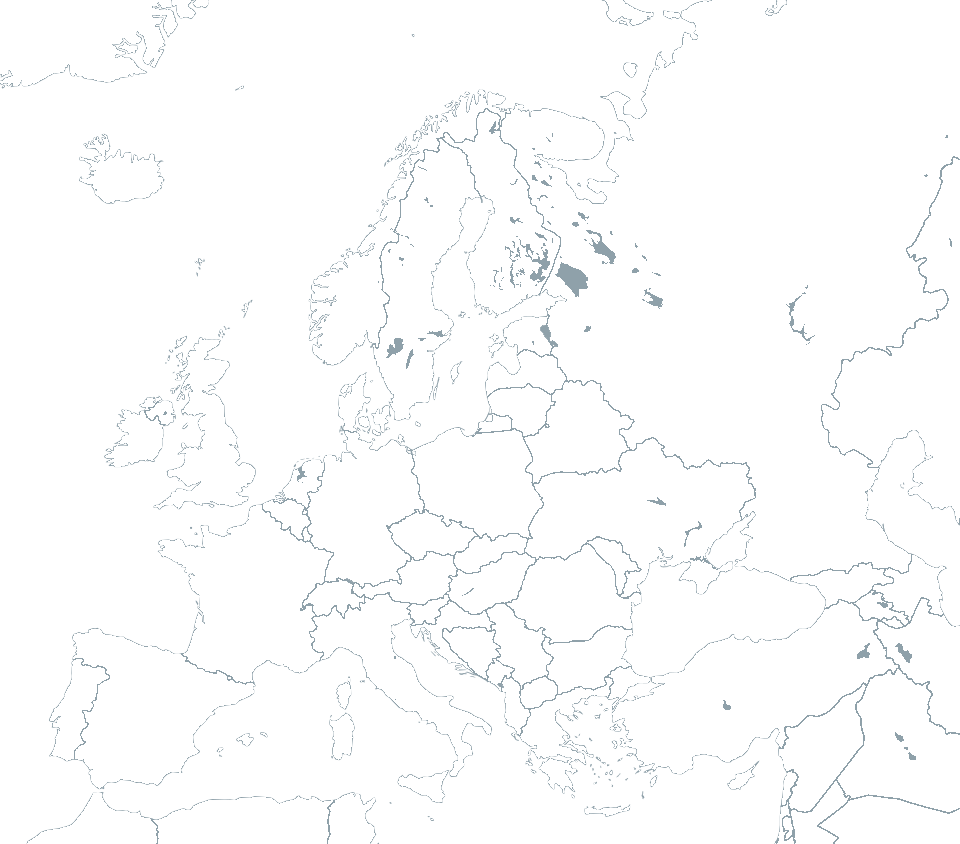
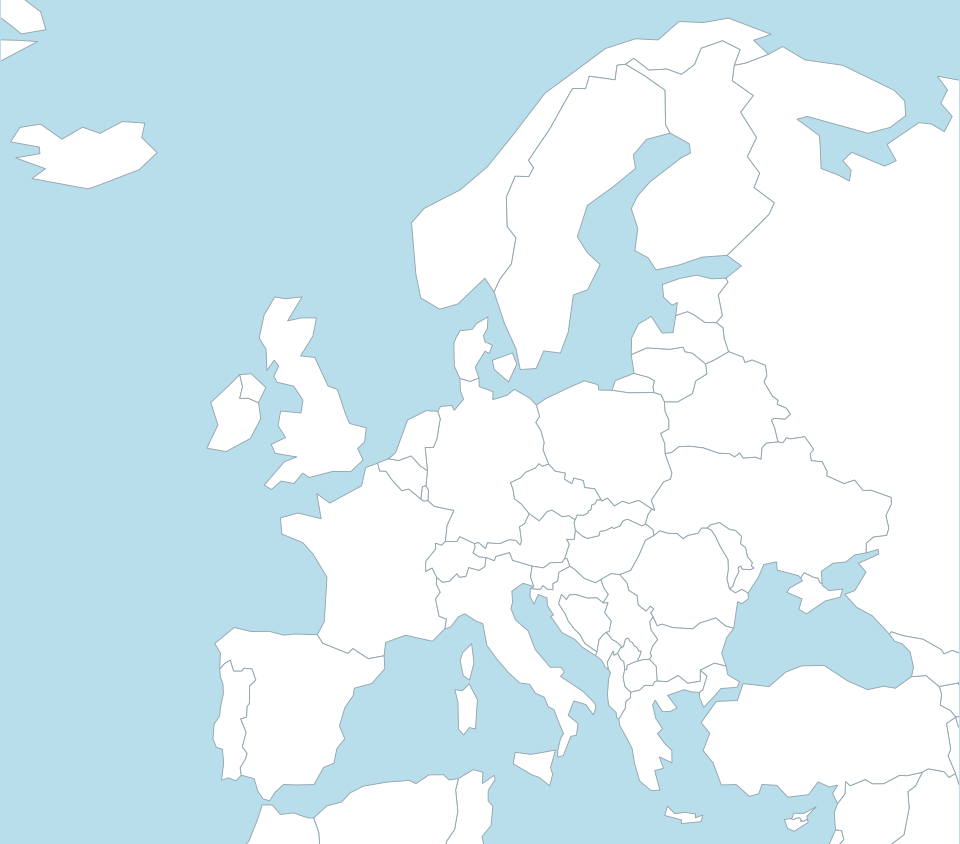
ver 3.2

diff --git a/app.js b/app.js
@@ -36,8 +36,8 @@ const cities = [
   {id:'malmo',name:'말뫼',country:'스웨덴',wiki:'Malmö',v:[3,2,4,4,5,2],type:'친환경 도시 · 전환 도시',title:'다양성과 친환경 변화를 이끄는 실천가',desc:'다양한 배경을 가진 사람들과 어울리며 더 지속가능한 공동체를 직접 만들어 가는 성향입니다.',book:'과거 산업 지역을 친환경 주거 지역으로 전환하고 재생 에너지와 지속가능한 도시 개발을 추진했습니다.'}
 ];
 
-const cityMapPositions={
-  reykjavik:[11,24],london:[22,52],paris:[26,58],nice:[33,69],madrid:[18,76],barcelona:[28,75],geneva:[33,66],brussels:[28,56],rome:[43,77],essen:[34,55],bilbao:[20,70],manchester:[20,49],sophia:[33,69],oulu:[54,24],kista:[48,39],freiburg:[34,63],copenhagen:[40,46],malmo:[40,48]
+const cityCoordinates={
+  reykjavik:[64.1466,-21.9426],london:[51.5074,-0.1278],paris:[48.8566,2.3522],nice:[43.7102,7.262],madrid:[40.4168,-3.7038],barcelona:[41.3874,2.1686],geneva:[46.2044,6.1432],brussels:[50.8503,4.3517],rome:[41.9028,12.4964],essen:[51.4556,7.0116],bilbao:[43.263,-2.935],manchester:[53.4808,-2.2426],sophia:[43.6156,7.055],oulu:[65.0121,25.4651],kista:[59.403,17.944],freiburg:[47.999,7.842],copenhagen:[55.6761,12.5683],malmo:[55.605,13.0038]
 };
 
 const state={current:0,answers:Array(questions.length).fill(null),scores:null,ranked:[],result:null};
@@ -89,7 +89,8 @@ async function renderResult(){
   const countryOnly=value=>value.split(' · ')[0];
   $('#similarCities').innerHTML=state.ranked.slice(1,3).map(x=>`<span class="similar-city"><b>${x.name}</b><small>${countryOnly(x.country)}</small></span>`).join('');
   $('#locationCity').textContent=city.name;$('#locationCountry').textContent=countryOnly(city.country);
-  const position=cityMapPositions[city.id]||[50,50];
+  const [lat,lon]=cityCoordinates[city.id]||[53,10];
+  const position=[((lon+25)/70)*100,((72-lat)/38)*100];
   $('#mapMarker').style.left=`${position[0]}%`;$('#mapMarker').style.top=`${position[1]}%`;
   const traitData=axes.map((a,i)=>({a,value:state.scores[a],target:city.v[i]})).sort((x,y)=>Math.abs(y.value-3)-Math.abs(x.value-3)).slice(0,3);
   const labels={A:['여유로움','활동 에너지'],H:['현대 감각','문화 감성'],I:['안정 지향','혁신 성향'],G:['지역 친밀','세계 연결'],E:['도시 편의','친환경성'],C:['북쪽 풍경','따뜻한 햇살']};
